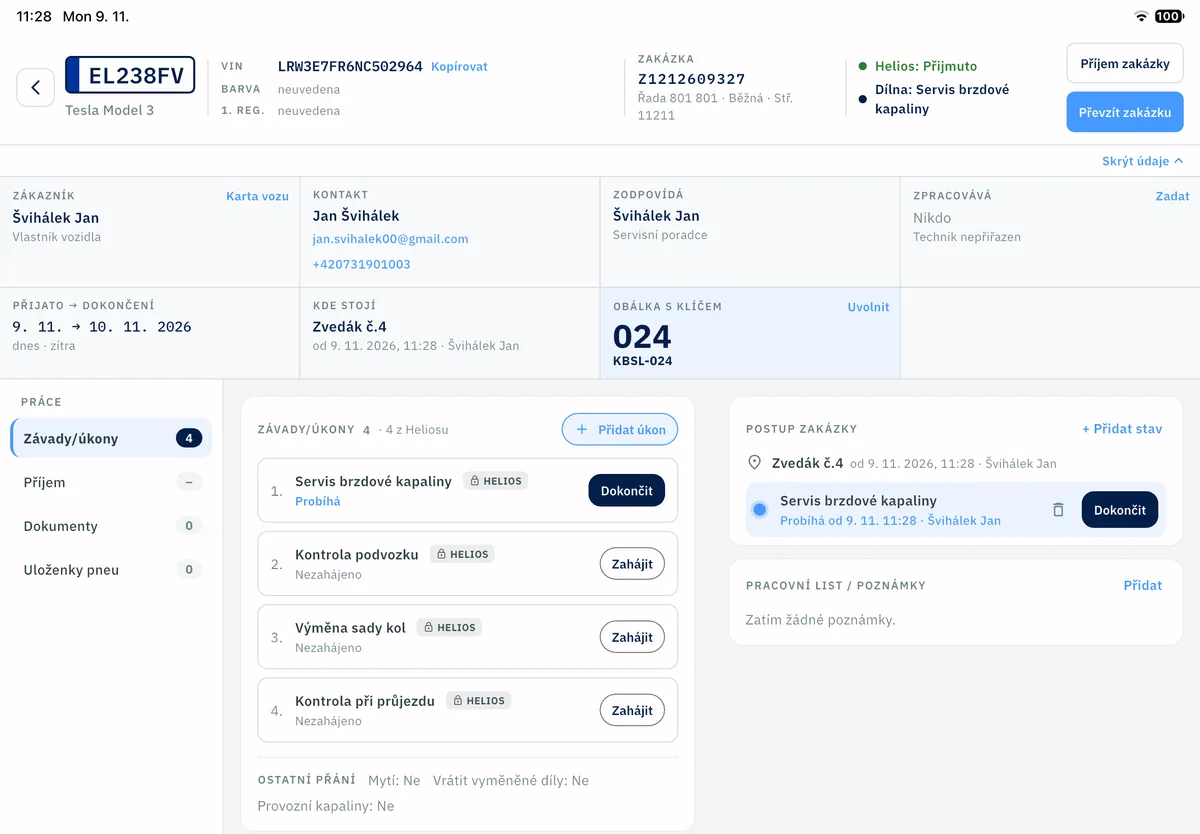
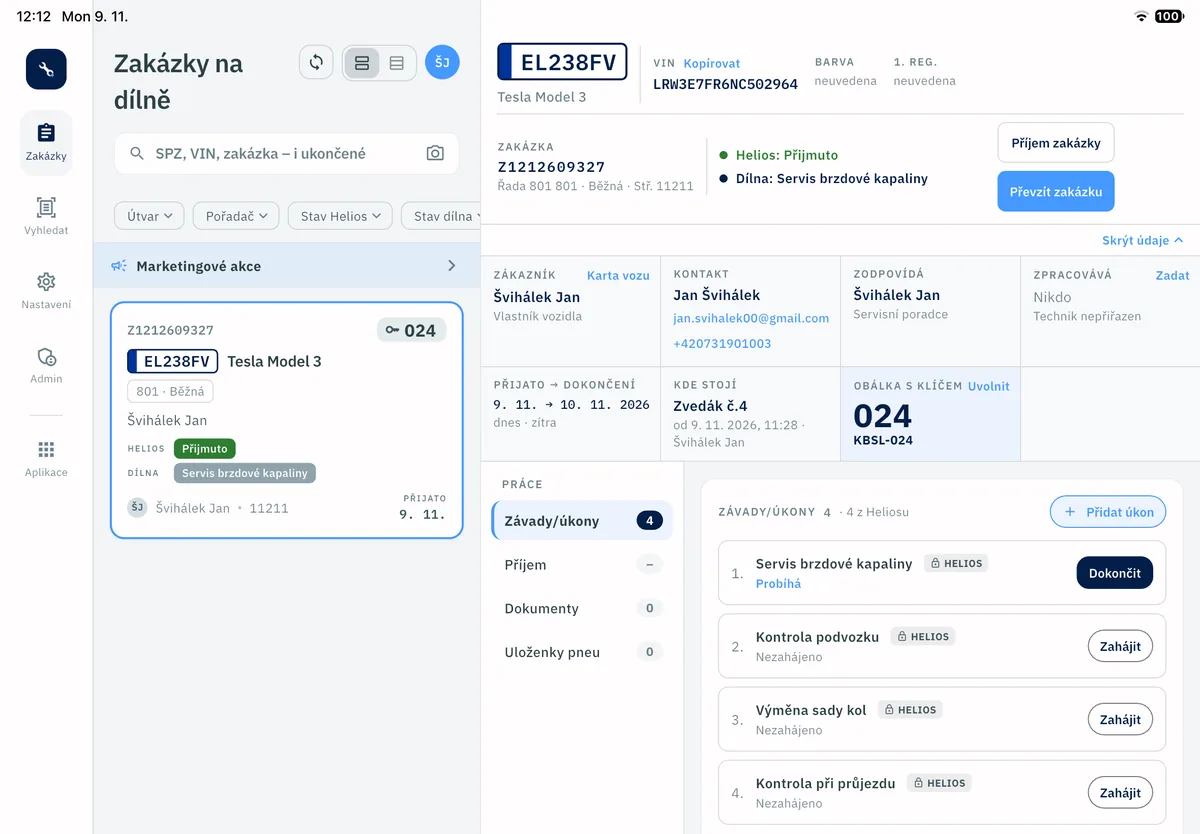
RenoWorkshop: nový screenshot z iPadu se seznamem a detailem zakázky
- karty jiných zákazníků ze seznamu odstraněny

diff --git a/index.html b/index.html
@@ -330,7 +330,7 @@ h1{font-size:44pt}
 <div class="sh reveal"><h2 data-t="pf_h">Vybrané projekty</h2><p class="sub" data-t="pf_sub">Dvě interní aplikace z&nbsp;posledního roku, obě pro dealera&nbsp;BMW a&nbsp;jeho zaměstnance.</p></div>
 <div class="cases">
 <article class="case reveal">
-<div class="shot shot-3"><img class="ph" src="images/renoworkshop_detail-480.webp" srcset="images/renoworkshop_detail-240.webp 240w,images/renoworkshop_detail-480.webp 480w,images/renoworkshop_detail-720.webp 720w" sizes="(max-width:56.25em) 28vw,480px" width="1170" height="2532" alt="RenoWorkshop – detail zakázky se závadami a&nbsp;úkony" data-ta="alt|a_rw2" loading="lazy" decoding="async"><img class="tab" src="images/renoworkshop_ipad-720.webp" srcset="images/renoworkshop_ipad-480.webp 480w,images/renoworkshop_ipad-720.webp 720w,images/renoworkshop_ipad-1200.webp 1200w" sizes="(max-width:56.25em) 76vw,640px" width="2360" height="1640" alt="RenoWorkshop na iPadu – detail zakázky s&nbsp;obálkou klíče a&nbsp;postupem práce" data-ta="alt|a_rw3" loading="lazy" decoding="async"></div>
+<div class="shot shot-3"><img class="ph" src="images/renoworkshop_detail-480.webp" srcset="images/renoworkshop_detail-240.webp 240w,images/renoworkshop_detail-480.webp 480w,images/renoworkshop_detail-720.webp 720w" sizes="(max-width:56.25em) 28vw,480px" width="1170" height="2532" alt="RenoWorkshop – detail zakázky se závadami a&nbsp;úkony" data-ta="alt|a_rw2" loading="lazy" decoding="async"><img class="tab" src="images/renoworkshop_ipad-720.webp" srcset="images/renoworkshop_ipad-480.webp 480w,images/renoworkshop_ipad-720.webp 720w,images/renoworkshop_ipad-1200.webp 1200w" sizes="(max-width:56.25em) 76vw,640px" width="2360" height="1640" alt="RenoWorkshop na iPadu – seznam zakázek a&nbsp;detail zakázky s&nbsp;obálkou klíče" data-ta="alt|a_rw3" loading="lazy" decoding="async"></div>
 <div>
 <div class="tag"><img src="images/renoworkshop-app-icon-192.png" width="40" height="40" alt="" loading="lazy" decoding="async"><span>RENOWORKSHOP</span></div>
 <h3 data-t="rw_h">RenoWorkshop&nbsp;– dílenská aplikace pro servis BMW</h3>
@@ -425,7 +425,7 @@ h1{font-size:44pt}
 (function(){
 var root=document.documentElement,hdr=document.getElementById('hdr'),lang='cs';
 function t(cs,en){return lang==='en'?en:cs;}
-var EN={"a_lang":"Language","nav_svc":"services","nav_con":"contact","hdr_status":"open to offers","hdr_cta":"contact me","skip":"skip to content","lead":"I build apps end to end: interface design, backend, integrations with company systems and deployment.","ch_ui":"UI design","ch_dep":"deployment","ch_note":"RenoWorkshop, built end to end as the sole developer","hire":"Looking for a full-time developer role in Brno or remote.","cta_job":"talk about a role","cta_prj":"ask about a project","pf_h":"Selected projects","pf_sub":"Two internal apps from the past year, both for a BMW dealer and its staff.","rw_h":"RenoWorkshop&nbsp;– workshop app for BMW service","rw_solve":"The app digitised vehicle check-in, from photos and checklists to the handover from the service desk to the workshop.","rw_p":"A technician scans the licence plate or VIN and the app finds the repair order in data synced from the Helios&nbsp;Nephrite ERP. It also handles repair progress, job cards, key envelopes with QR labels and a PDF repair order report. It replaces the paper job folder.","dt_part":"my role:","dt_plat":"platform:","dt_rel":"distribution:","dt_st":"status:","rw_part":"sole developer: UI design → Flutter → API → Helios → MDM","rw_rel":"managed devices via MDM, not in app stores","rw_f1":"on-device recognition of licence plates, VINs and QR codes (ML&nbsp;Kit)","rw_f2":"integration with the Helios&nbsp;Nephrite ERP through a separate database synced every 5&nbsp;minutes and a custom API","re_h":"RenoEnergy&nbsp;– EV charging and meter reading records","re_solve":"RenoEnergy replaced handwritten meter readings.","re_p":"Staff photograph the meter before and after charging on company chargers, and the app calculates kWh consumption and an estimated price for invoicing, with monthly summaries for each employee. It also supports technicians on meter-reading rounds for electricity, gas and other meters across the premises, with meters identified by QR code.","re_part":"sole developer: UI design → Flutter → backend → deployment","re_rel":"for employees, not in app stores","st_prod":"in production","sk_exp":"As part of in-house IT, I build internal apps and look after the network and ERP they connect to.","sk_li":"full experience on LinkedIn<span class=\"sr\"> (opens in a new tab)</span>","k_int":"integrations","k_inf":"infrastructure","k_pra":"practices","k_lang":"spoken languages","c_tests":"tests","c_en":"English B2","c_es":"Spanish A2","sv_h":"Custom projects","sv_sub":"For companies that need their own app. One shared codebase for iPhone and Android makes development faster and cheaper.","sv1_h":"App development","sv1":"Flutter apps for iOS and Android from architecture to release. A new app in 6–12&nbsp;weeks.","sv2_h":"Consulting","sv2":"Architecture, stack selection, code audits and reviews. Hourly rate or a package of days.","sv3":"Interface design and prototypes, implemented directly in Flutter.","sv4_h":"Maintenance","sv4":"Updates, fixes and small features, including apps built elsewhere.","ct_h":"Get in touch","ct_sub":"I’m open to job offers and new projects.","ct_dir":"DIRECT CONTACT","ct_tel":"PHONE","ct_copy":"copy","ct_way":"WORK PREFERENCES","ct_want":"I prefer a full-time role, in Brno or remote. Other options:","c_part":"part-time","c_ico":"freelance contract","c_prj":"custom projects","f_h":"Send me a message","f_job":"Job offer","f_prj":"I have a project","f_hint":"All fields are required.","f_name":"NAME","f_name_e":"enter your name","f_mail_e":"enter a valid email","f_msg":"MESSAGE","f_msg_e":"write a few words","f_or":" or write directly to ","f_send":"send message","f_small":"reply within 1&nbsp;business day","ft_top":"back to top ↑","a_nav":"Main navigation","a_mnav":"Mobile navigation","a_seg":"Message type","a_cm":"copy email","a_ct":"copy phone","a_re1":"RenoEnergy – charging overview","a_re2":"RenoEnergy – metering points","p_name":"Jane Smith","p_mail":"jane@company.com","l_mail":"EMAIL","hire_note":"Over <span class=\"exp-yrs\" id=\"exp-yrs\" data-from=\"2022-09-01\">4&nbsp;years</span> in in-house IT, including app development&nbsp;· <a href=\"https://www.linkedin.com/in/jan-%C5%A1vih%C3%A1lek-526627170/\" target=\"_blank\" rel=\"noopener noreferrer\">LinkedIn<span class=\"sr\"> (opens in a new tab)</span></a>","rw_f7":"sign-in with company Microsoft&nbsp;365 accounts","ct_li":"/in/jan-švihálek<span class=\"sr\"> (opens in a new tab)</span>","rw_build":"HOW IT’S BUILT","a_shots":"App screenshots","a_rw3":"RenoWorkshop on iPad – order detail with key envelope and job progress","a_rw2":"RenoWorkshop – order detail with faults and jobs"};
+var EN={"a_lang":"Language","nav_svc":"services","nav_con":"contact","hdr_status":"open to offers","hdr_cta":"contact me","skip":"skip to content","lead":"I build apps end to end: interface design, backend, integrations with company systems and deployment.","ch_ui":"UI design","ch_dep":"deployment","ch_note":"RenoWorkshop, built end to end as the sole developer","hire":"Looking for a full-time developer role in Brno or remote.","cta_job":"talk about a role","cta_prj":"ask about a project","pf_h":"Selected projects","pf_sub":"Two internal apps from the past year, both for a BMW dealer and its staff.","rw_h":"RenoWorkshop&nbsp;– workshop app for BMW service","rw_solve":"The app digitised vehicle check-in, from photos and checklists to the handover from the service desk to the workshop.","rw_p":"A technician scans the licence plate or VIN and the app finds the repair order in data synced from the Helios&nbsp;Nephrite ERP. It also handles repair progress, job cards, key envelopes with QR labels and a PDF repair order report. It replaces the paper job folder.","dt_part":"my role:","dt_plat":"platform:","dt_rel":"distribution:","dt_st":"status:","rw_part":"sole developer: UI design → Flutter → API → Helios → MDM","rw_rel":"managed devices via MDM, not in app stores","rw_f1":"on-device recognition of licence plates, VINs and QR codes (ML&nbsp;Kit)","rw_f2":"integration with the Helios&nbsp;Nephrite ERP through a separate database synced every 5&nbsp;minutes and a custom API","re_h":"RenoEnergy&nbsp;– EV charging and meter reading records","re_solve":"RenoEnergy replaced handwritten meter readings.","re_p":"Staff photograph the meter before and after charging on company chargers, and the app calculates kWh consumption and an estimated price for invoicing, with monthly summaries for each employee. It also supports technicians on meter-reading rounds for electricity, gas and other meters across the premises, with meters identified by QR code.","re_part":"sole developer: UI design → Flutter → backend → deployment","re_rel":"for employees, not in app stores","st_prod":"in production","sk_exp":"As part of in-house IT, I build internal apps and look after the network and ERP they connect to.","sk_li":"full experience on LinkedIn<span class=\"sr\"> (opens in a new tab)</span>","k_int":"integrations","k_inf":"infrastructure","k_pra":"practices","k_lang":"spoken languages","c_tests":"tests","c_en":"English B2","c_es":"Spanish A2","sv_h":"Custom projects","sv_sub":"For companies that need their own app. One shared codebase for iPhone and Android makes development faster and cheaper.","sv1_h":"App development","sv1":"Flutter apps for iOS and Android from architecture to release. A new app in 6–12&nbsp;weeks.","sv2_h":"Consulting","sv2":"Architecture, stack selection, code audits and reviews. Hourly rate or a package of days.","sv3":"Interface design and prototypes, implemented directly in Flutter.","sv4_h":"Maintenance","sv4":"Updates, fixes and small features, including apps built elsewhere.","ct_h":"Get in touch","ct_sub":"I’m open to job offers and new projects.","ct_dir":"DIRECT CONTACT","ct_tel":"PHONE","ct_copy":"copy","ct_way":"WORK PREFERENCES","ct_want":"I prefer a full-time role, in Brno or remote. Other options:","c_part":"part-time","c_ico":"freelance contract","c_prj":"custom projects","f_h":"Send me a message","f_job":"Job offer","f_prj":"I have a project","f_hint":"All fields are required.","f_name":"NAME","f_name_e":"enter your name","f_mail_e":"enter a valid email","f_msg":"MESSAGE","f_msg_e":"write a few words","f_or":" or write directly to ","f_send":"send message","f_small":"reply within 1&nbsp;business day","ft_top":"back to top ↑","a_nav":"Main navigation","a_mnav":"Mobile navigation","a_seg":"Message type","a_cm":"copy email","a_ct":"copy phone","a_re1":"RenoEnergy – charging overview","a_re2":"RenoEnergy – metering points","p_name":"Jane Smith","p_mail":"jane@company.com","l_mail":"EMAIL","hire_note":"Over <span class=\"exp-yrs\" id=\"exp-yrs\" data-from=\"2022-09-01\">4&nbsp;years</span> in in-house IT, including app development&nbsp;· <a href=\"https://www.linkedin.com/in/jan-%C5%A1vih%C3%A1lek-526627170/\" target=\"_blank\" rel=\"noopener noreferrer\">LinkedIn<span class=\"sr\"> (opens in a new tab)</span></a>","rw_f7":"sign-in with company Microsoft&nbsp;365 accounts","ct_li":"/in/jan-švihálek<span class=\"sr\"> (opens in a new tab)</span>","rw_build":"HOW IT’S BUILT","a_shots":"App screenshots","a_rw3":"RenoWorkshop on iPad – order list and order detail with key envelope","a_rw2":"RenoWorkshop – order detail with faults and jobs"};
 
 root.classList.add('js');
 var rv=document.querySelectorAll('.reveal');

diff --git a/PRODUCT.md b/PRODUCT.md
@@ -80,7 +80,7 @@ Reference, doporučení, metriky a čísla o dopadu, loga klientů a začátek p
 
 - **Jméno klienta:** u RenoWorkshopu a RenoEnergy se klient uvádí jen jako „dealer BMW“. Web nesmí napsat, že aplikace vznikly pro Renocar. Renocar zůstává v praxi jako zaměstnavatel a Jan přijímá, že si čtenář vazbu může domyslet.
 - **Torkis a QRkni:** do portfolia se nevracejí. Jejich obrázky jsou z projektu smazané.
-- **Screenshoty se skutečnými osobními údaji:** žádný obrázek na webu nesmí ukazovat skutečný IBAN, telefon, e-mail, SPZ, VIN ani údaje zákazníků. Nové screenshoty musí používat vymyšlená data. Současné screenshoty jsou v pořádku: RenoEnergy i RenoWorkshop ukazují Janovo vlastní vozidlo a údaje, které schválil ke zveřejnění. Ze seznamu zakázek RenoWorkshopu je odstraněná karta jiného zákazníka.
+- **Screenshoty se skutečnými osobními údaji:** žádný obrázek na webu nesmí ukazovat skutečný IBAN, telefon, e-mail, SPZ, VIN ani údaje zákazníků. Nové screenshoty musí používat vymyšlená data. Současné screenshoty jsou v pořádku: RenoEnergy i RenoWorkshop ukazují Janovo vlastní vozidlo a údaje, které schválil ke zveřejnění. Ze seznamů zakázek RenoWorkshopu na telefonu i iPadu jsou odstraněné karty jiných zákazníků.
 
 ## Product Principles
 
